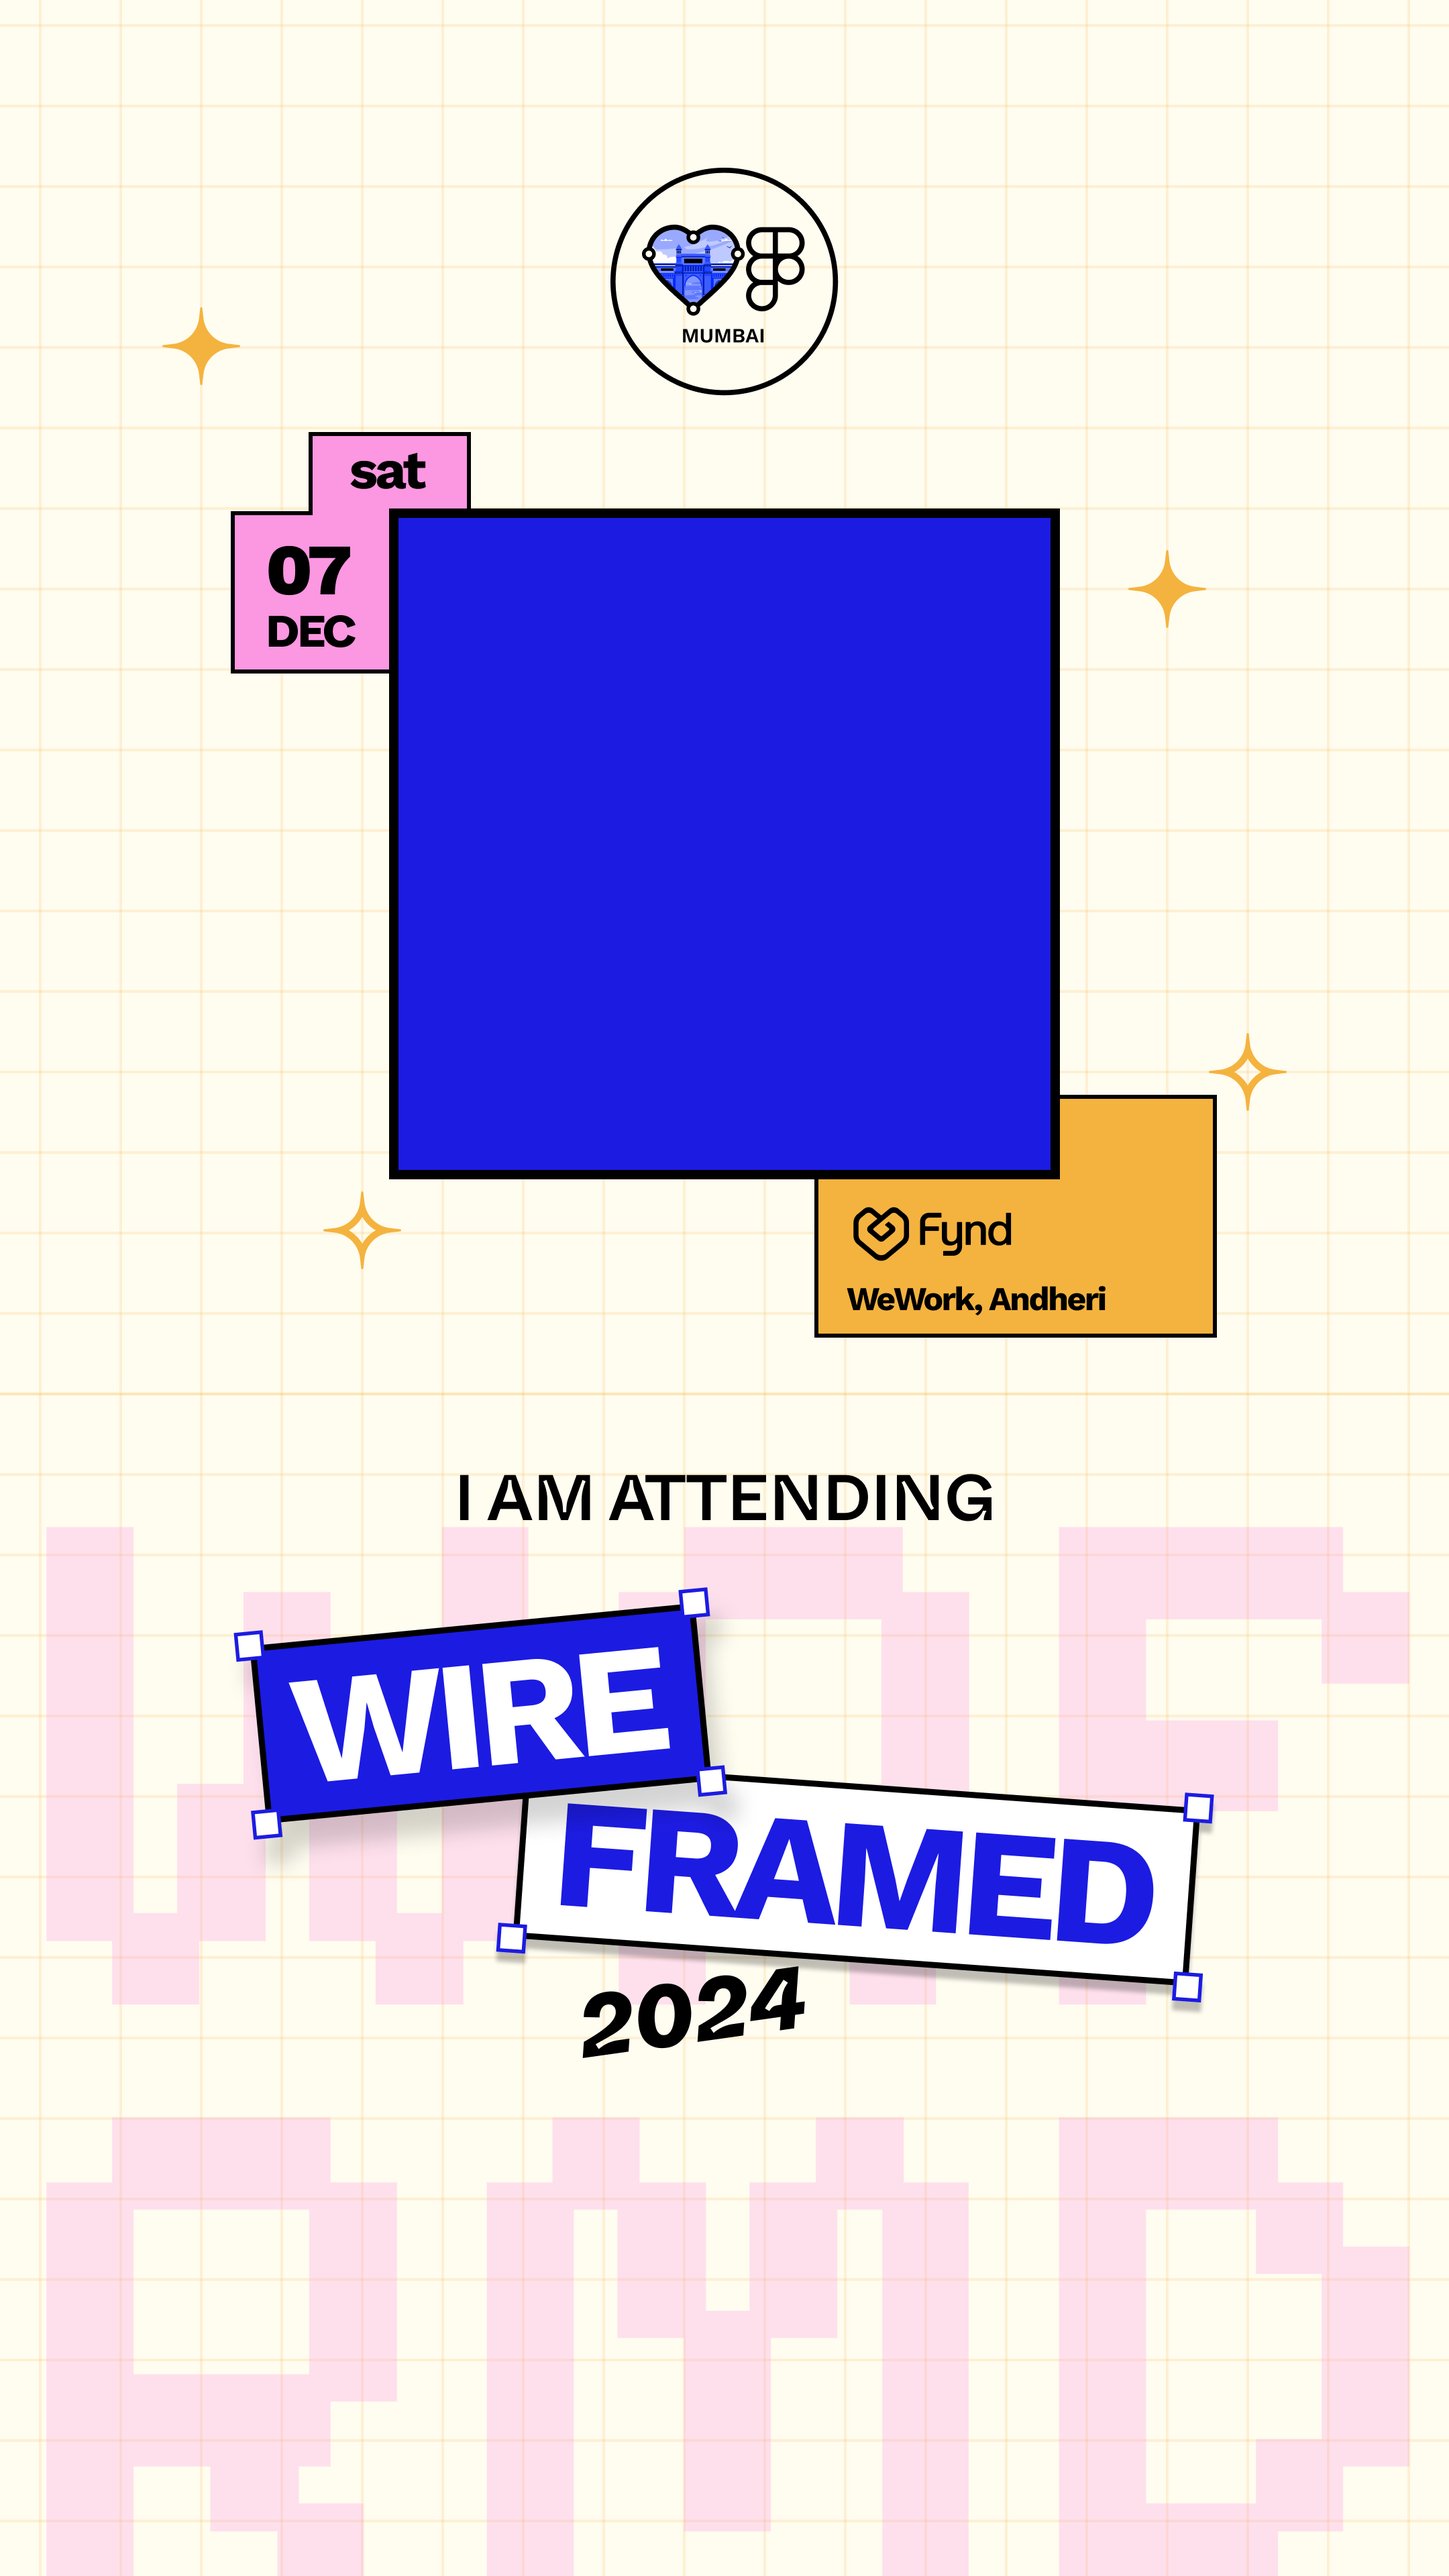
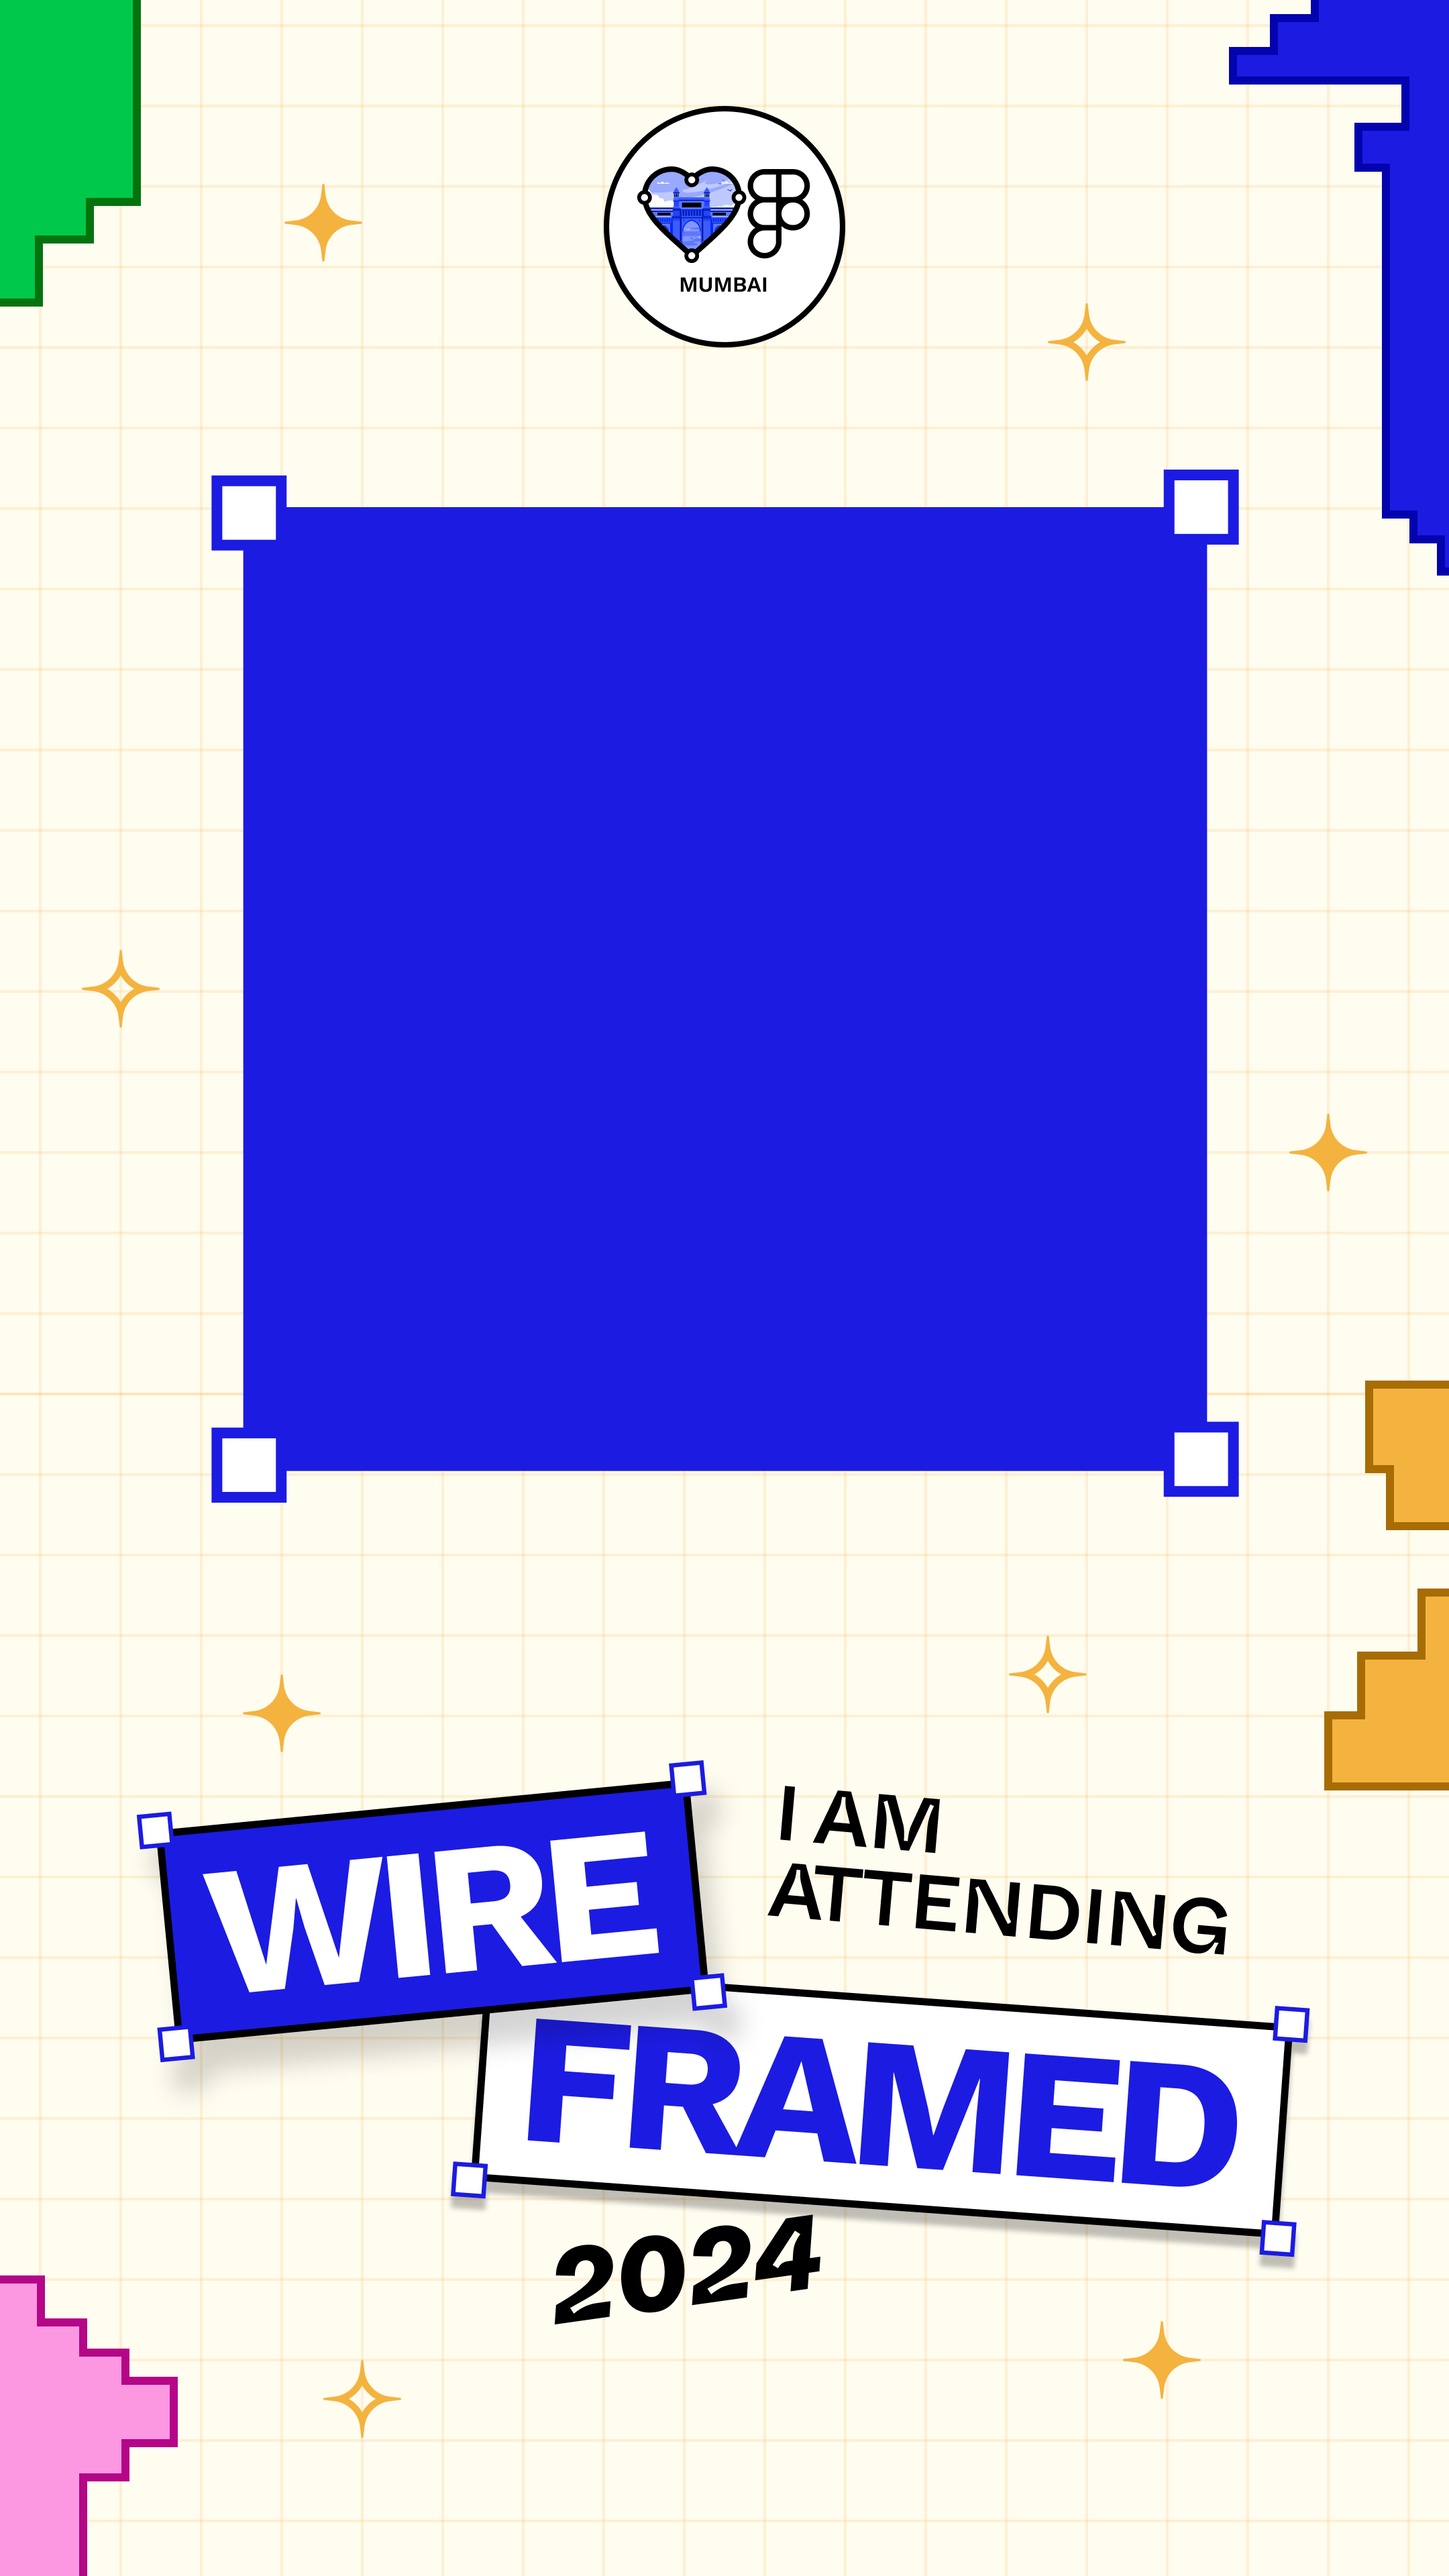
new template vertical

diff --git a/script.js b/script.js
@@ -189,15 +189,15 @@ function generateVersion(
   const centerX = width / 2;
   const centerY =
     templateType === "vertical"
-      ? height * 0.327 // Vertical template
+      ? height * 0.3838 // Vertical template
       : height * 0.32; // Square template
 
   // Adjust image size based on template type
   const size =
     templateType === "vertical"
       ? isPreview
-        ? 405
-        : 810 // Vertical template size
+        ? 670
+        : 1340 // Vertical template size
       : isPreview
       ? 324
       : 648; // Larger image for square template
@@ -208,7 +208,7 @@ function generateVersion(
   let sourceY = (profileImage.height - sourceSize) / 2;
 
   // Calculate border width proportional to image size
-  const borderWidth = isPreview ? 5 : 10;
+  const borderWidth = isPreview ? 0 : 0;
 
   // Draw black border
   context.fillStyle = "#000000";
